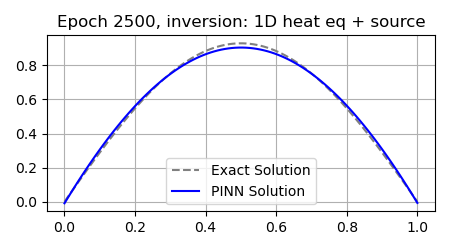
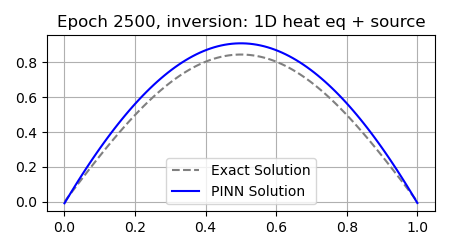
load epochs from params.yaml

Changed region(s): [[0.0311, 0.168, 0.9644, 0.784]]

diff --git a/train_and_inversion.py b/train_and_inversion.py
@@ -83,7 +83,7 @@ def train_inversion(pinn, params, exact_solution, inversion=False, with_source=F
     optimizer = torch.optim.AdamW(pinn.parameters(), lr=1e-3) # Adam or AdamW
 
     # Training
-    for epoch in range(5001):
+    for epoch in range(params['training_params']['epochs']):
         optimizer.zero_grad()
 
         # Boundary loss (enforcing zero at boundaries)

diff --git a/models.py b/models.py
@@ -27,7 +27,7 @@ class FCN(nn.Module):
 
         if inversion:
             # Learnable parameter alpha
-            self.alpha = nn.Parameter(torch.tensor(0.05, dtype=torch.float32))
+            self.alpha = nn.Parameter(torch.tensor(0.15, dtype=torch.float32))
 
     def forward(self, x):
         x = self.fcs(x)
